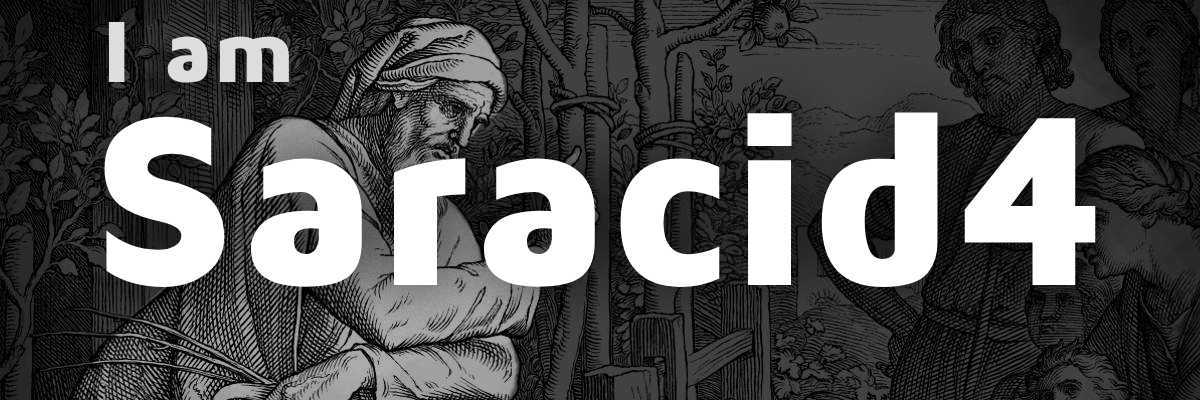
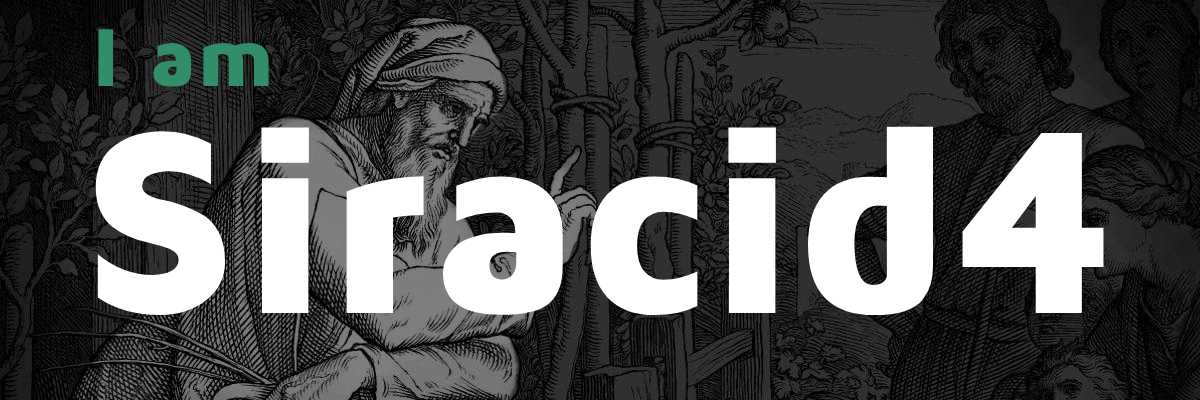
Updates

diff --git a/readme.md b/readme.md
@@ -1,5 +1,5 @@
 
-# Hi there, I'm Saracid4 👋  
+# Hi there, I'm Siracid4 👋  
 [<img align="center" alt="Siracid4" src="banner.jpg">](#)
 
 ## ✨ About me
